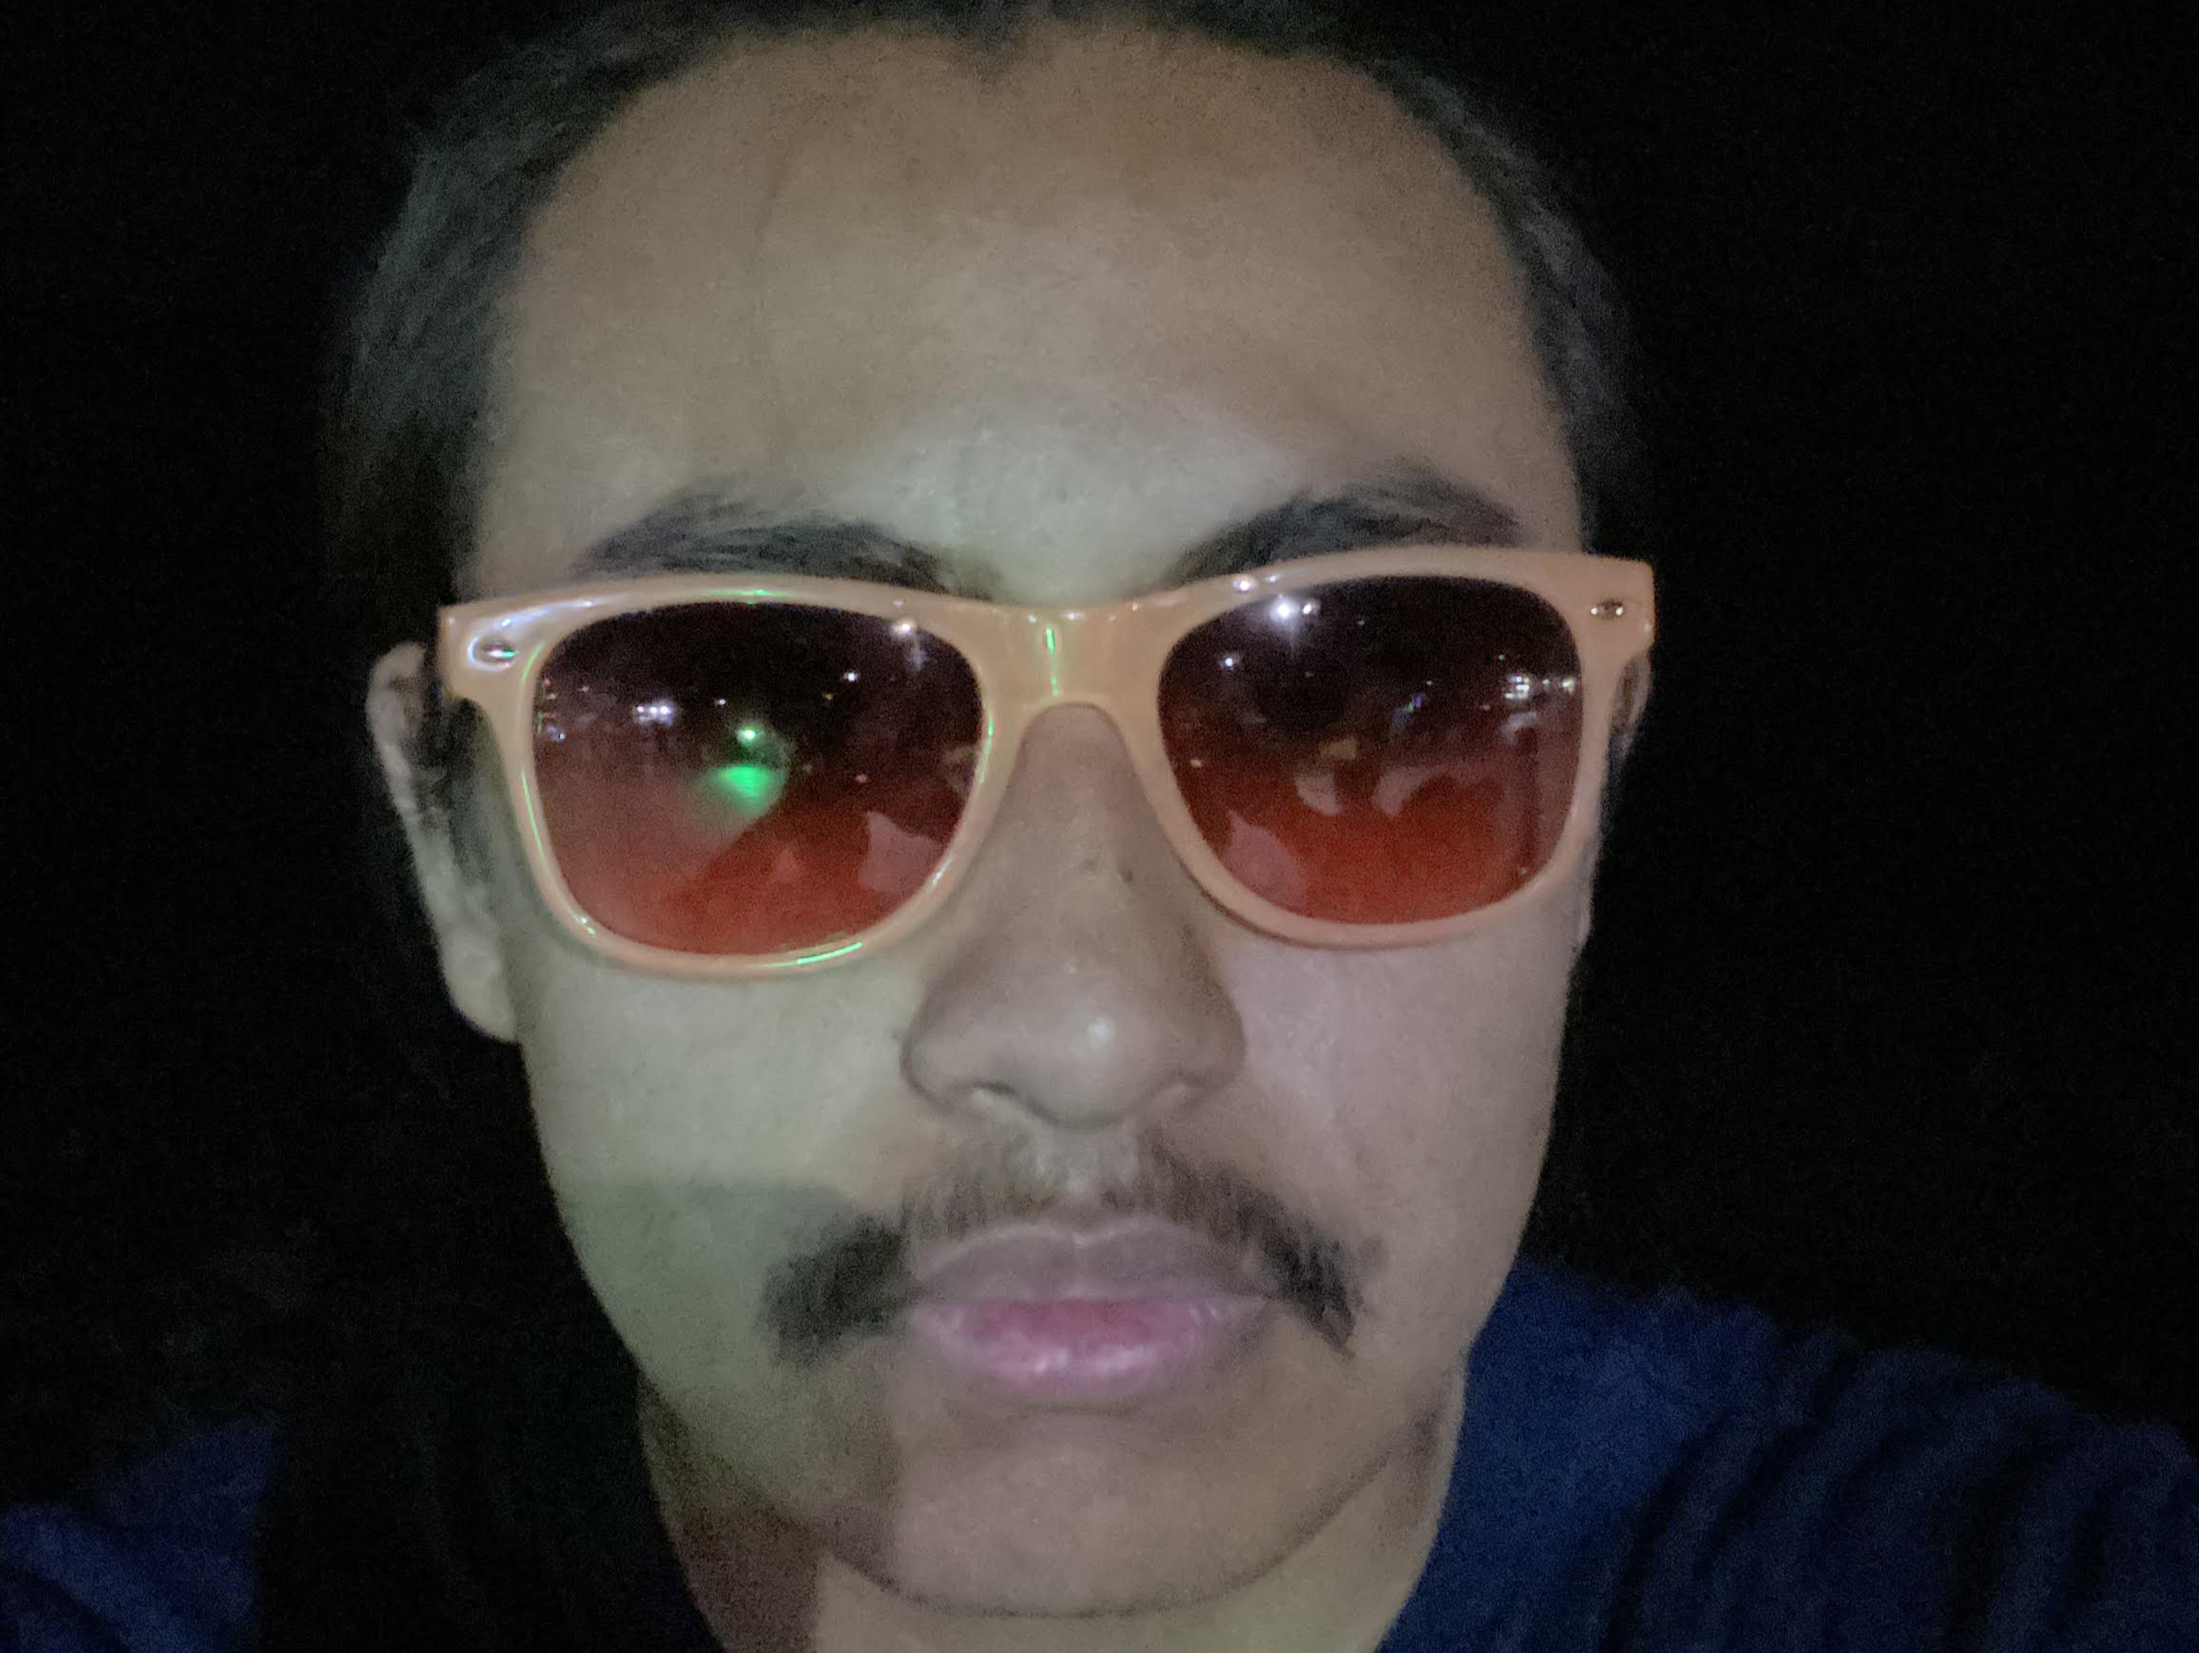
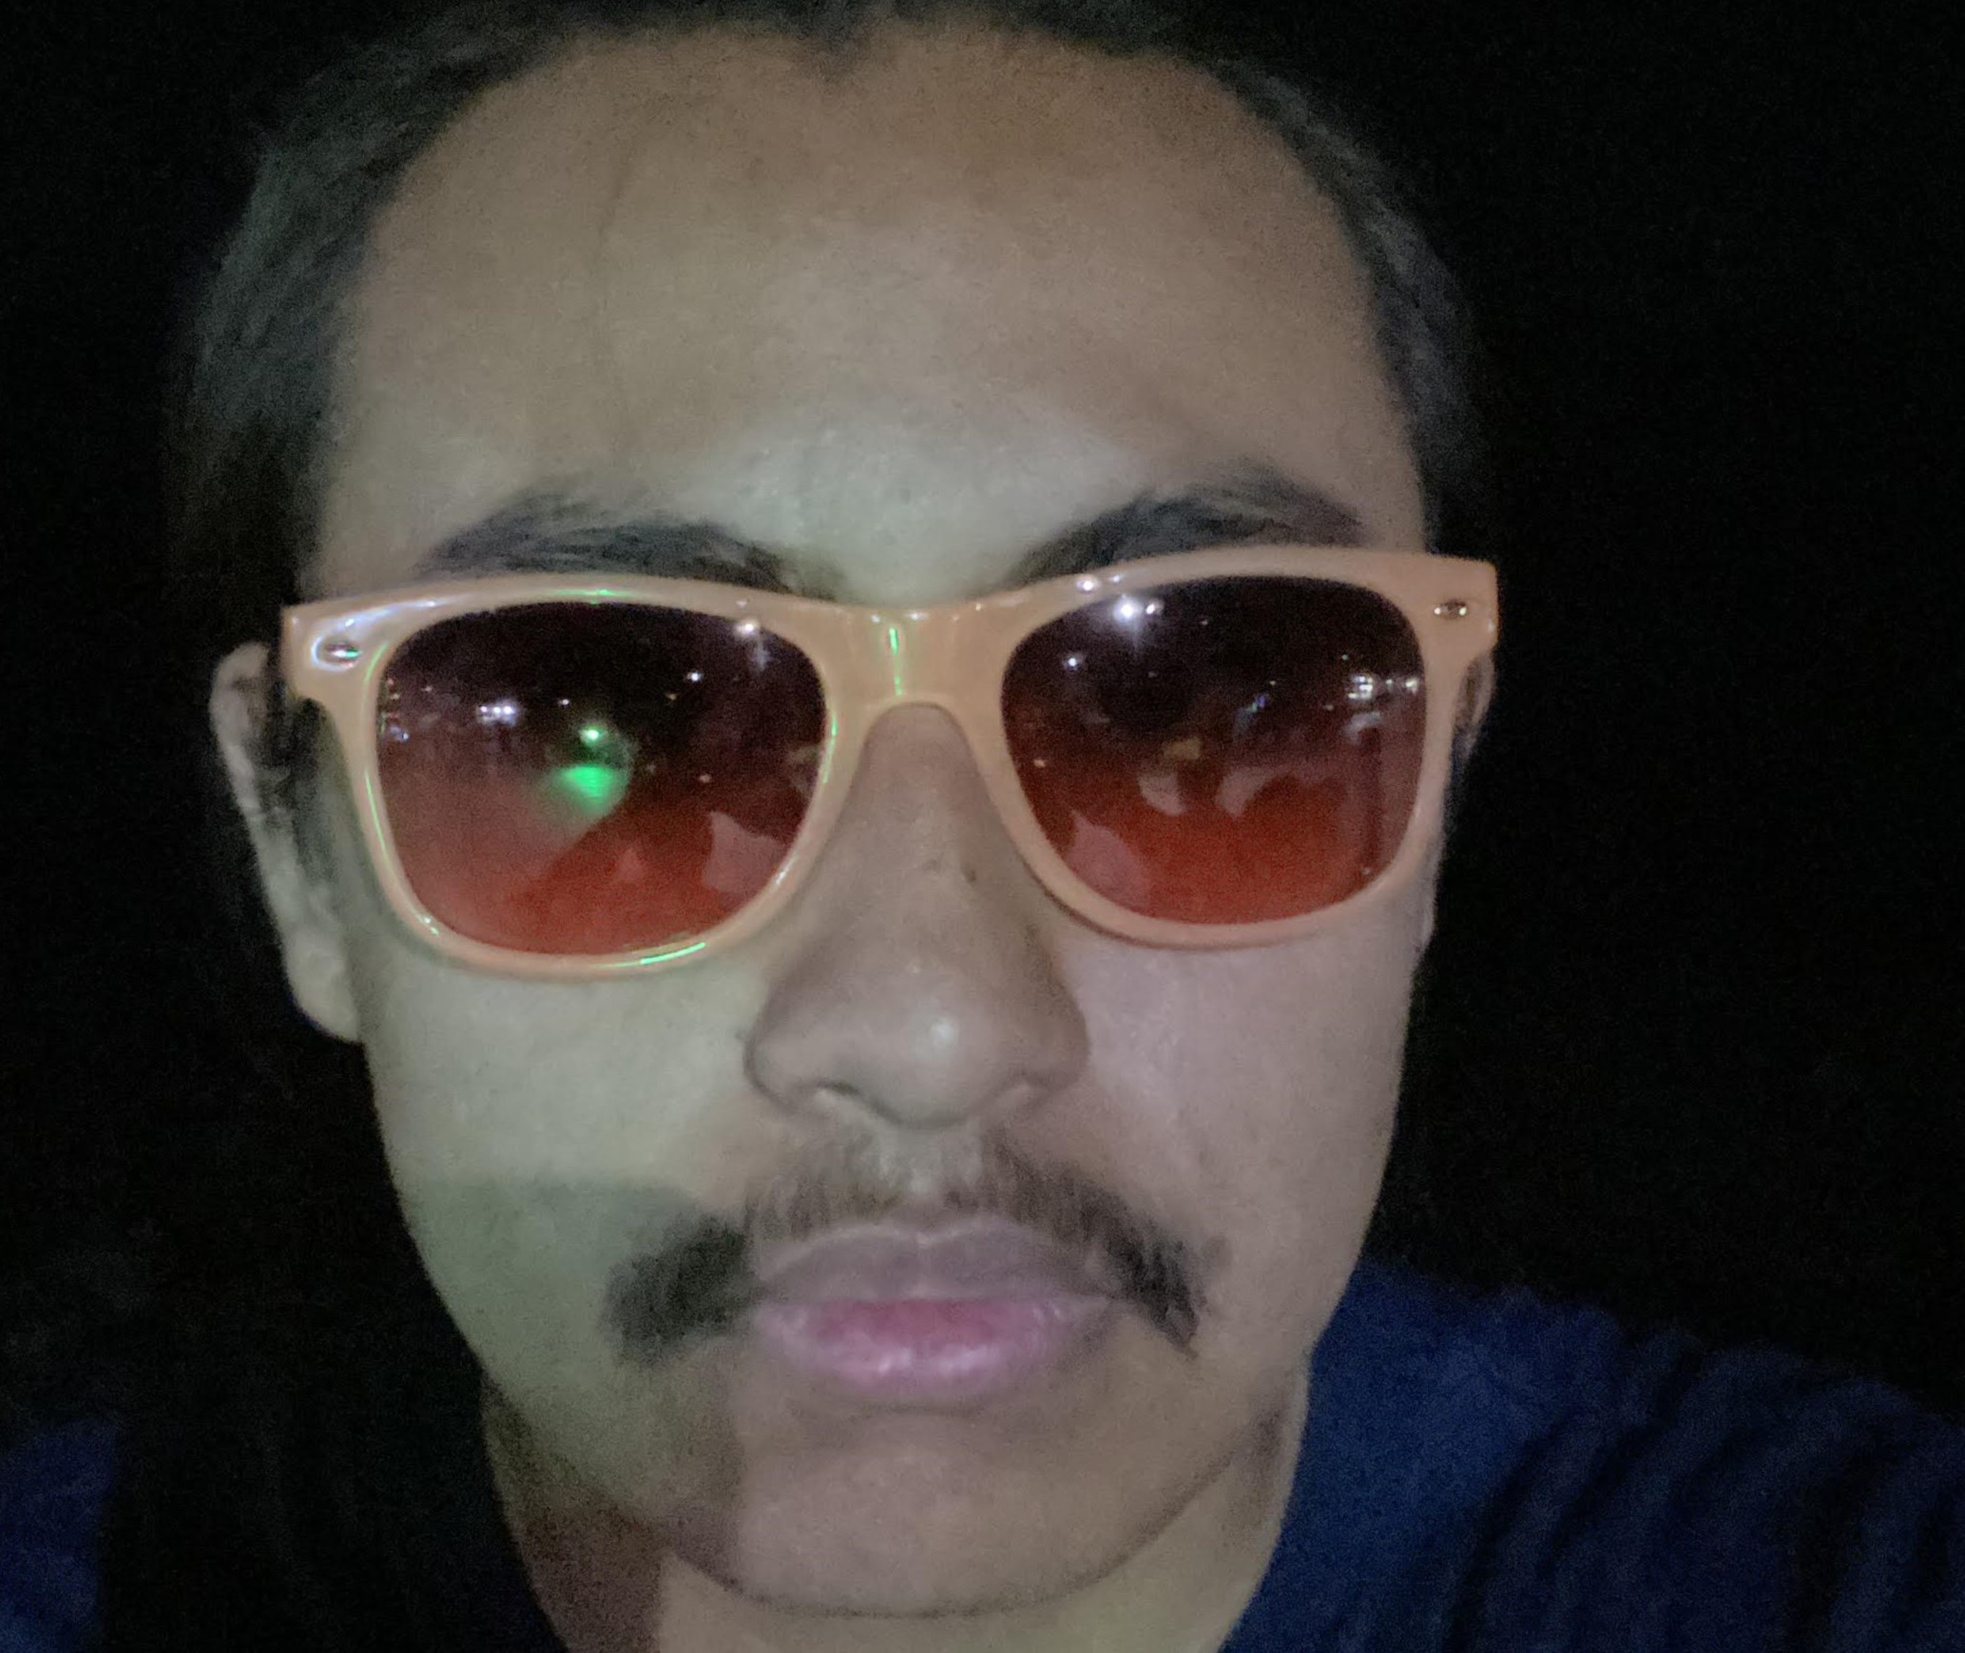
Finalized and fully responsive top half of home page

diff --git a/src/Pages/Home.css b/src/Pages/Home.css
@@ -3,7 +3,8 @@
 }
 .overview{
     text-align: center;
-    background-color: rgb(255, 197, 255);
+    padding: 0px 30px 0px 30px;
+    background-color: #FFE96C;
 }
 .overview-title{
     color: #59472B;
@@ -15,28 +16,32 @@
     width: 300px;
     font-size: 18px;
 }
-.overview-image{
-    border-radius: 5px;
+.overview-image-holder{
+    display: flex;
+    justify-content: center;
+    align-items: center;
     width: 100%;
+}
+
+.overview-image{
+    max-width: 350px;
+    border-radius: 5px;
     border: 4px solid #59472B;
 }
 
-@media (min-width: 480px) {
+@media (min-width: 520px) {
     #home{
         display: flex;
     }
     .overview{
-        width: calc(50%);
-        padding-left: 20px;
-        padding-right: 20px;
+        max-width: 50%;
         align-content: center;
     }
     .overview-text{
         width: auto;
     }
     .overview-image{
-        width: 350px;
-        height: 210px;
+        width: 50%;
     }
 }
 

diff --git a/src/Pages/Home.jsx b/src/Pages/Home.jsx
@@ -15,8 +15,11 @@ function Home(){
                       achievements and interests along the way.</p>
                 <br/>
                 <hr className="overview-line"/>
+                <br/>
             </div>
-            <img src={selfie} className="overview-image" alt="selfie image of Valentin"/>
+            <div className="overview-image-holder">
+                <img src={selfie} className="overview-image" alt="selfie image of Valentin"/>
+            </div>
         </div>
     );
 }
